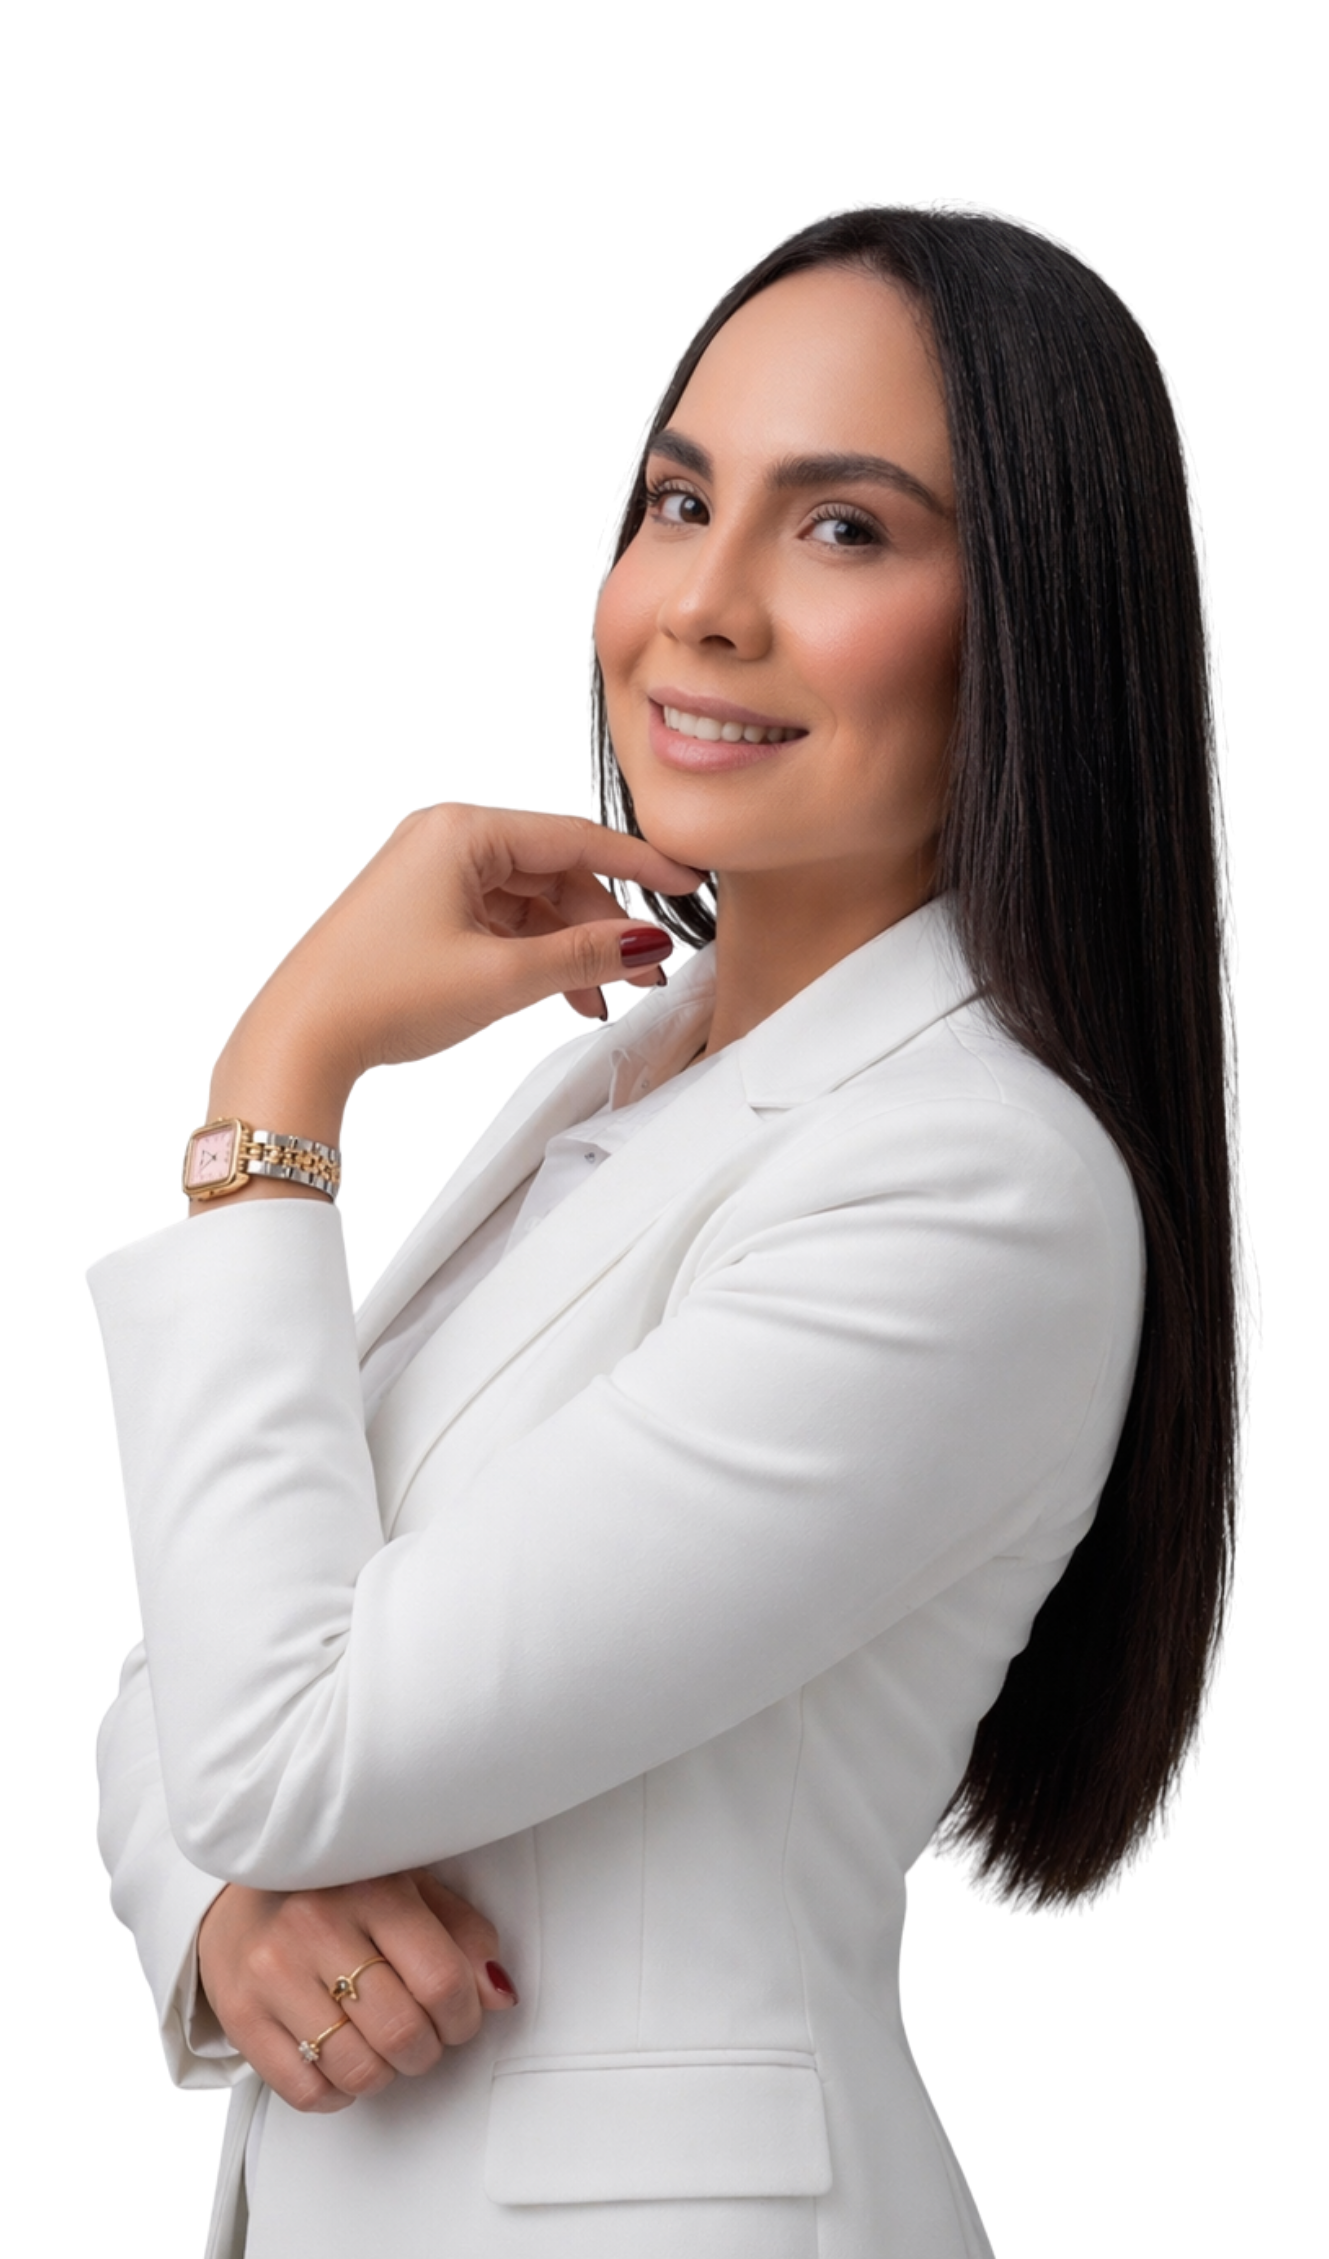
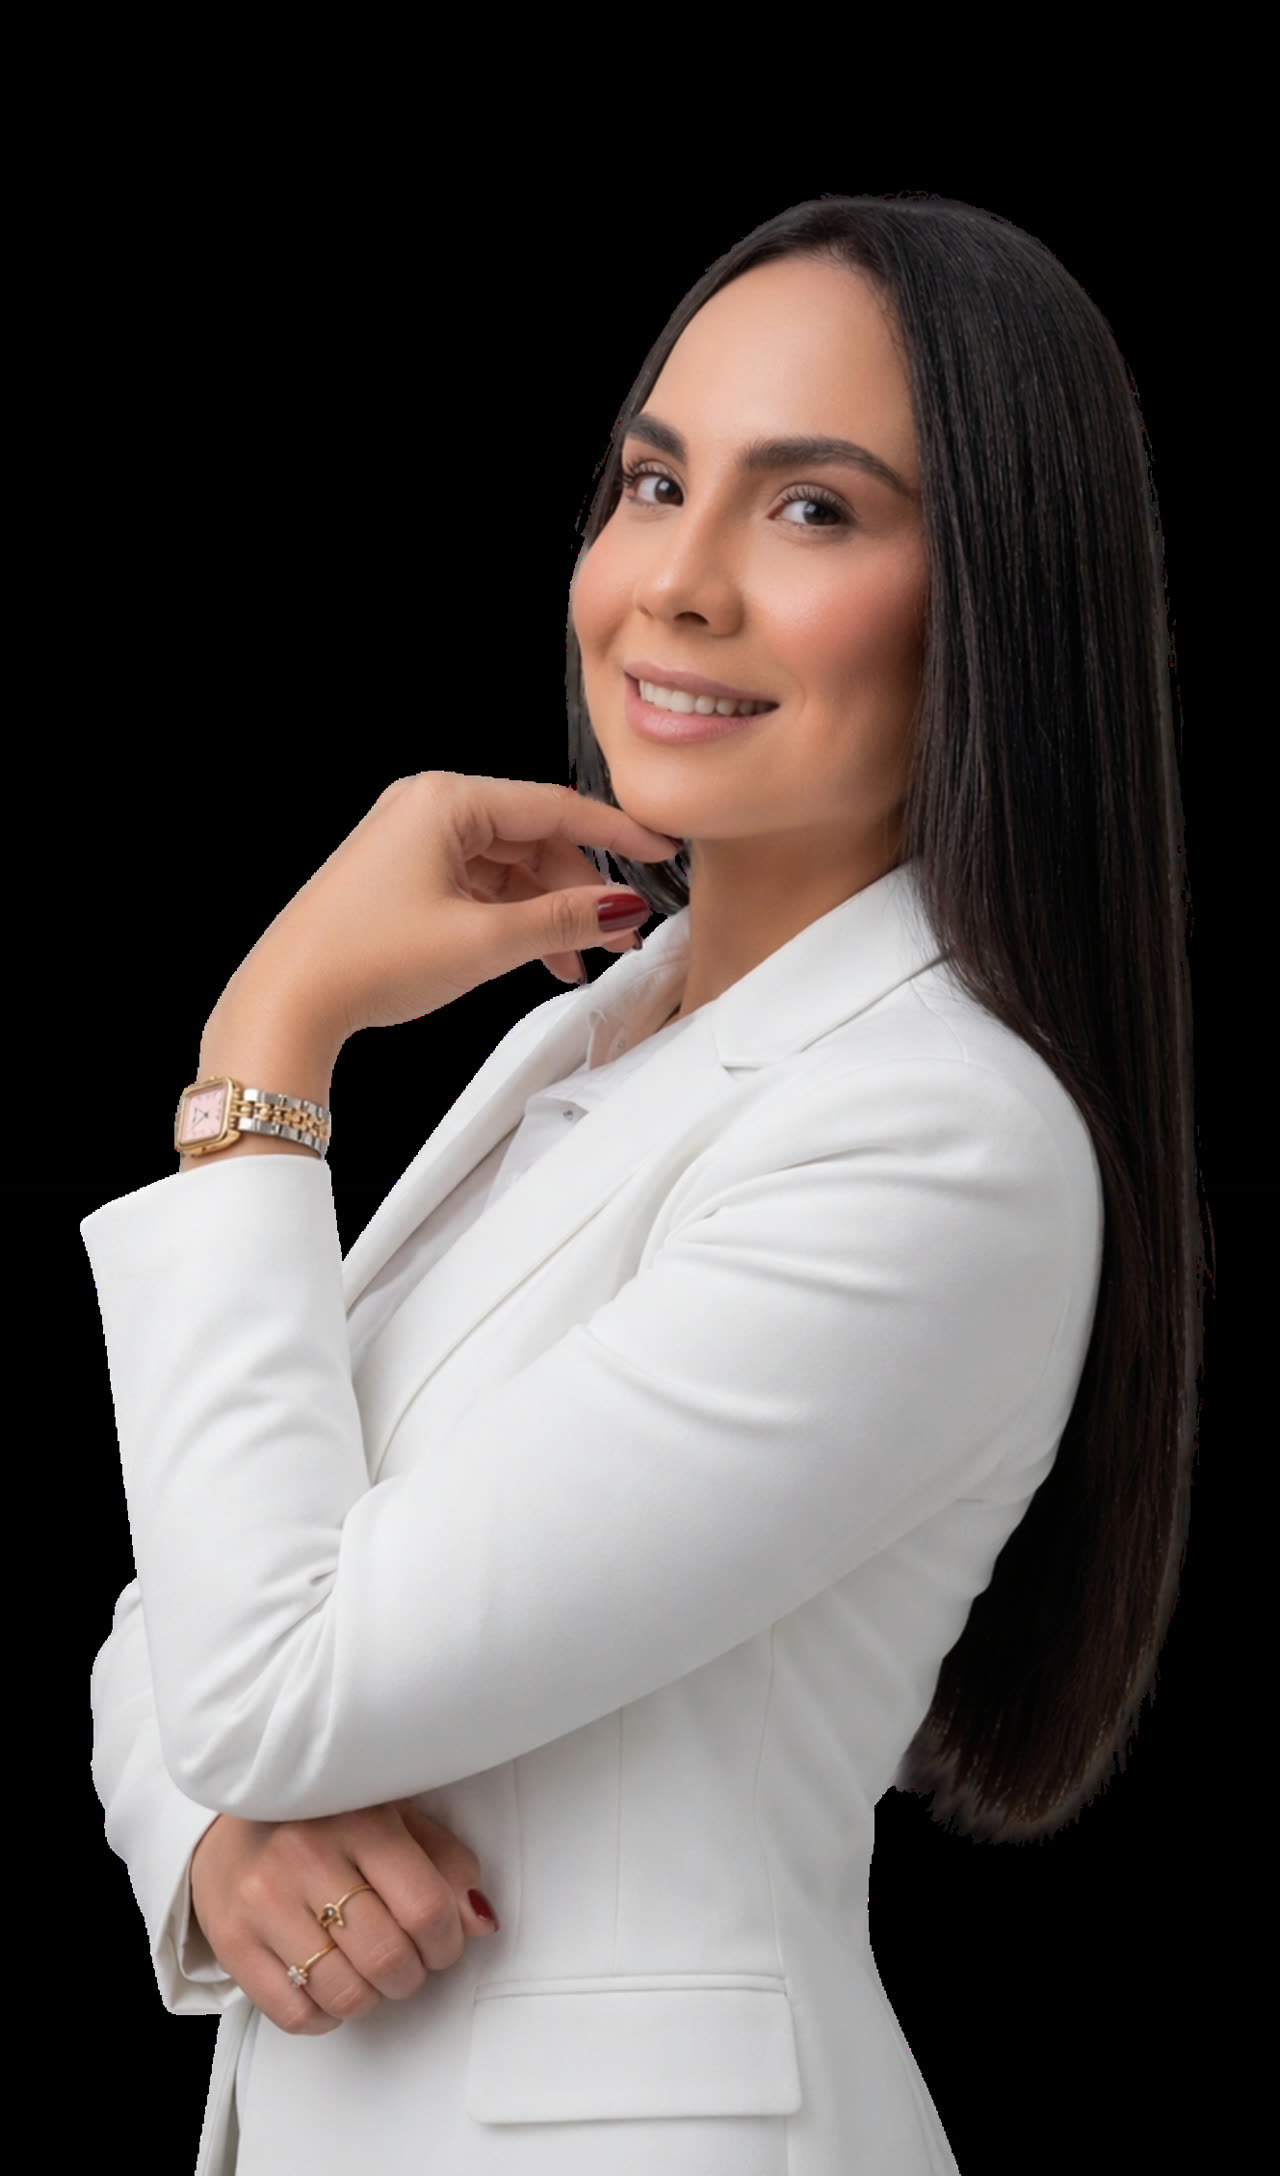
perf: convierte y recomprime imagenes a WebP, redimensiona al tamano real de uso
- services/*.png -> .webp (redimensionadas ~1000-1200px de ancho segun
  orientacion, q80): de ~15.5MB a ~0.5MB en total.
- ceo-fundadora.jpg y nisael_santos.jpg: recomprimidas en el mismo formato
  (redimensionadas a max 1280px de ancho): 3.0MB->128KB y 2.1MB->92KB.
- logo_footer.png y logo_SM_icon_transparente.png -> .webp (mantienen alpha,
  redimensionados a 500px de ancho, q90): 840KB->28KB y 308KB->24KB.
- Actualiza referencias de path en PracticeAreas.tsx, Header.tsx y Footer.tsx.

diff --git a/app/components/PracticeAreas.tsx b/app/components/PracticeAreas.tsx
@@ -17,49 +17,49 @@ export const practiceAreas: PracticeArea[] = [
     title: "Asilo Político",
     desc: "Preparamos tu solicitud y tu testimonio con evidencia sólida, para presentarte ante el juez o el oficial de asilo con un caso verdaderamente defendible.",
     slug: "asilo",
-    image: "/images/services/img-asilo_politico.png",
+    image: "/images/services/img-asilo_politico.webp",
   },
   {
     title: "Representación en Corte de Inmigración",
     desc: "Te representamos en cada audiencia frente al Tribunal de Inmigración (EOIR), sin dejarte enfrentar al juez sin preparación.",
     slug: "representacion-en-corte",
-    image: "/images/services/img-representacion_en_corte.png",
+    image: "/images/services/img-representacion_en_corte.webp",
   },
   {
     title: "Permiso de Trabajo (EAD)",
     desc: "Gestionamos y corregimos tu solicitud de autorización de empleo para que puedas trabajar legalmente mientras tu caso avanza.",
     slug: "permiso-de-trabajo",
-    image: "/images/services/img-permiso_de_trabajo.png",
+    image: "/images/services/img-permiso_de_trabajo.webp",
   },
   {
     title: "Cancelación de Remoción",
     desc: "Evaluamos si calificas para detener tu proceso de deportación por tiempo de residencia y dificultad extrema a tu familia.",
     slug: "cancelacion-de-remocion",
-    image: "/images/services/img-cancelacion_de_remocion.png",
+    image: "/images/services/img-cancelacion_de_remocion.webp",
   },
   {
     title: "Peticiones Familiares",
     desc: "Reunificación familiar mediante peticiones de inmigración en EE. UU.",
     slug: "peticiones-familiares",
-    image: "/images/services/img-peticion_familiar.png",
+    image: "/images/services/img-peticion_familiar.webp",
   },
   {
     title: "Visa U y VAWA",
     desc: "Protección legal para víctimas de crímenes o abuso, con procesos que exigen evidencia cuidadosamente documentada.",
     slug: "visa-u-vawa",
-    image: "/images/services/img-visa_vawa.png",
+    image: "/images/services/img-visa_vawa.webp",
   },
   {
     title: "Naturalización y Ciudadanía",
     desc: "Acompañamiento integral en tu proceso para obtener la ciudadanía estadounidense.",
     slug: "naturalizacion-y-ciudadania",
-    image: "/images/services/img-naturalizacion_y_ciudadania.png",
+    image: "/images/services/img-naturalizacion_y_ciudadania.webp",
   },
   {
     title: "Fianza de Inmigración",
     desc: "Te ayudamos a solicitar la liberación bajo fianza mientras tu proceso migratorio continúa.",
     slug: "fianza-de-inmigracion",
-    image: "/images/services/img_fianza.png",
+    image: "/images/services/img_fianza.webp",
   },
 ];
 

diff --git a/app/components/Header.tsx b/app/components/Header.tsx
@@ -82,7 +82,7 @@ export default function Header() {
               según el estado oscuro/claro del header. */}
           <span className="relative inline-block aspect-191/104 h-12 shrink-0 sm:h-14 lg:h-16">
             <Image
-              src="/images/logo_footer.png"
+              src="/images/logo_footer.webp"
               alt="SM Soluciones Migratorias"
               width={382}
               height={208}
@@ -92,7 +92,7 @@ export default function Header() {
               }`}
             />
             <Image
-              src="/images/logo_SM_icon_transparente.png"
+              src="/images/logo_SM_icon_transparente.webp"
               alt=""
               aria-hidden="true"
               width={382}

diff --git a/app/components/Footer.tsx b/app/components/Footer.tsx
@@ -16,7 +16,7 @@ export default function Footer() {
         <div className="max-w-sm space-y-4">
           <Link href="/#inicio" className="group inline-flex shrink-0 items-center gap-5">
             <Image
-              src="/images/logo_footer.png"
+              src="/images/logo_footer.webp"
               alt="SM Soluciones Migratorias"
               width={382}
               height={208}
